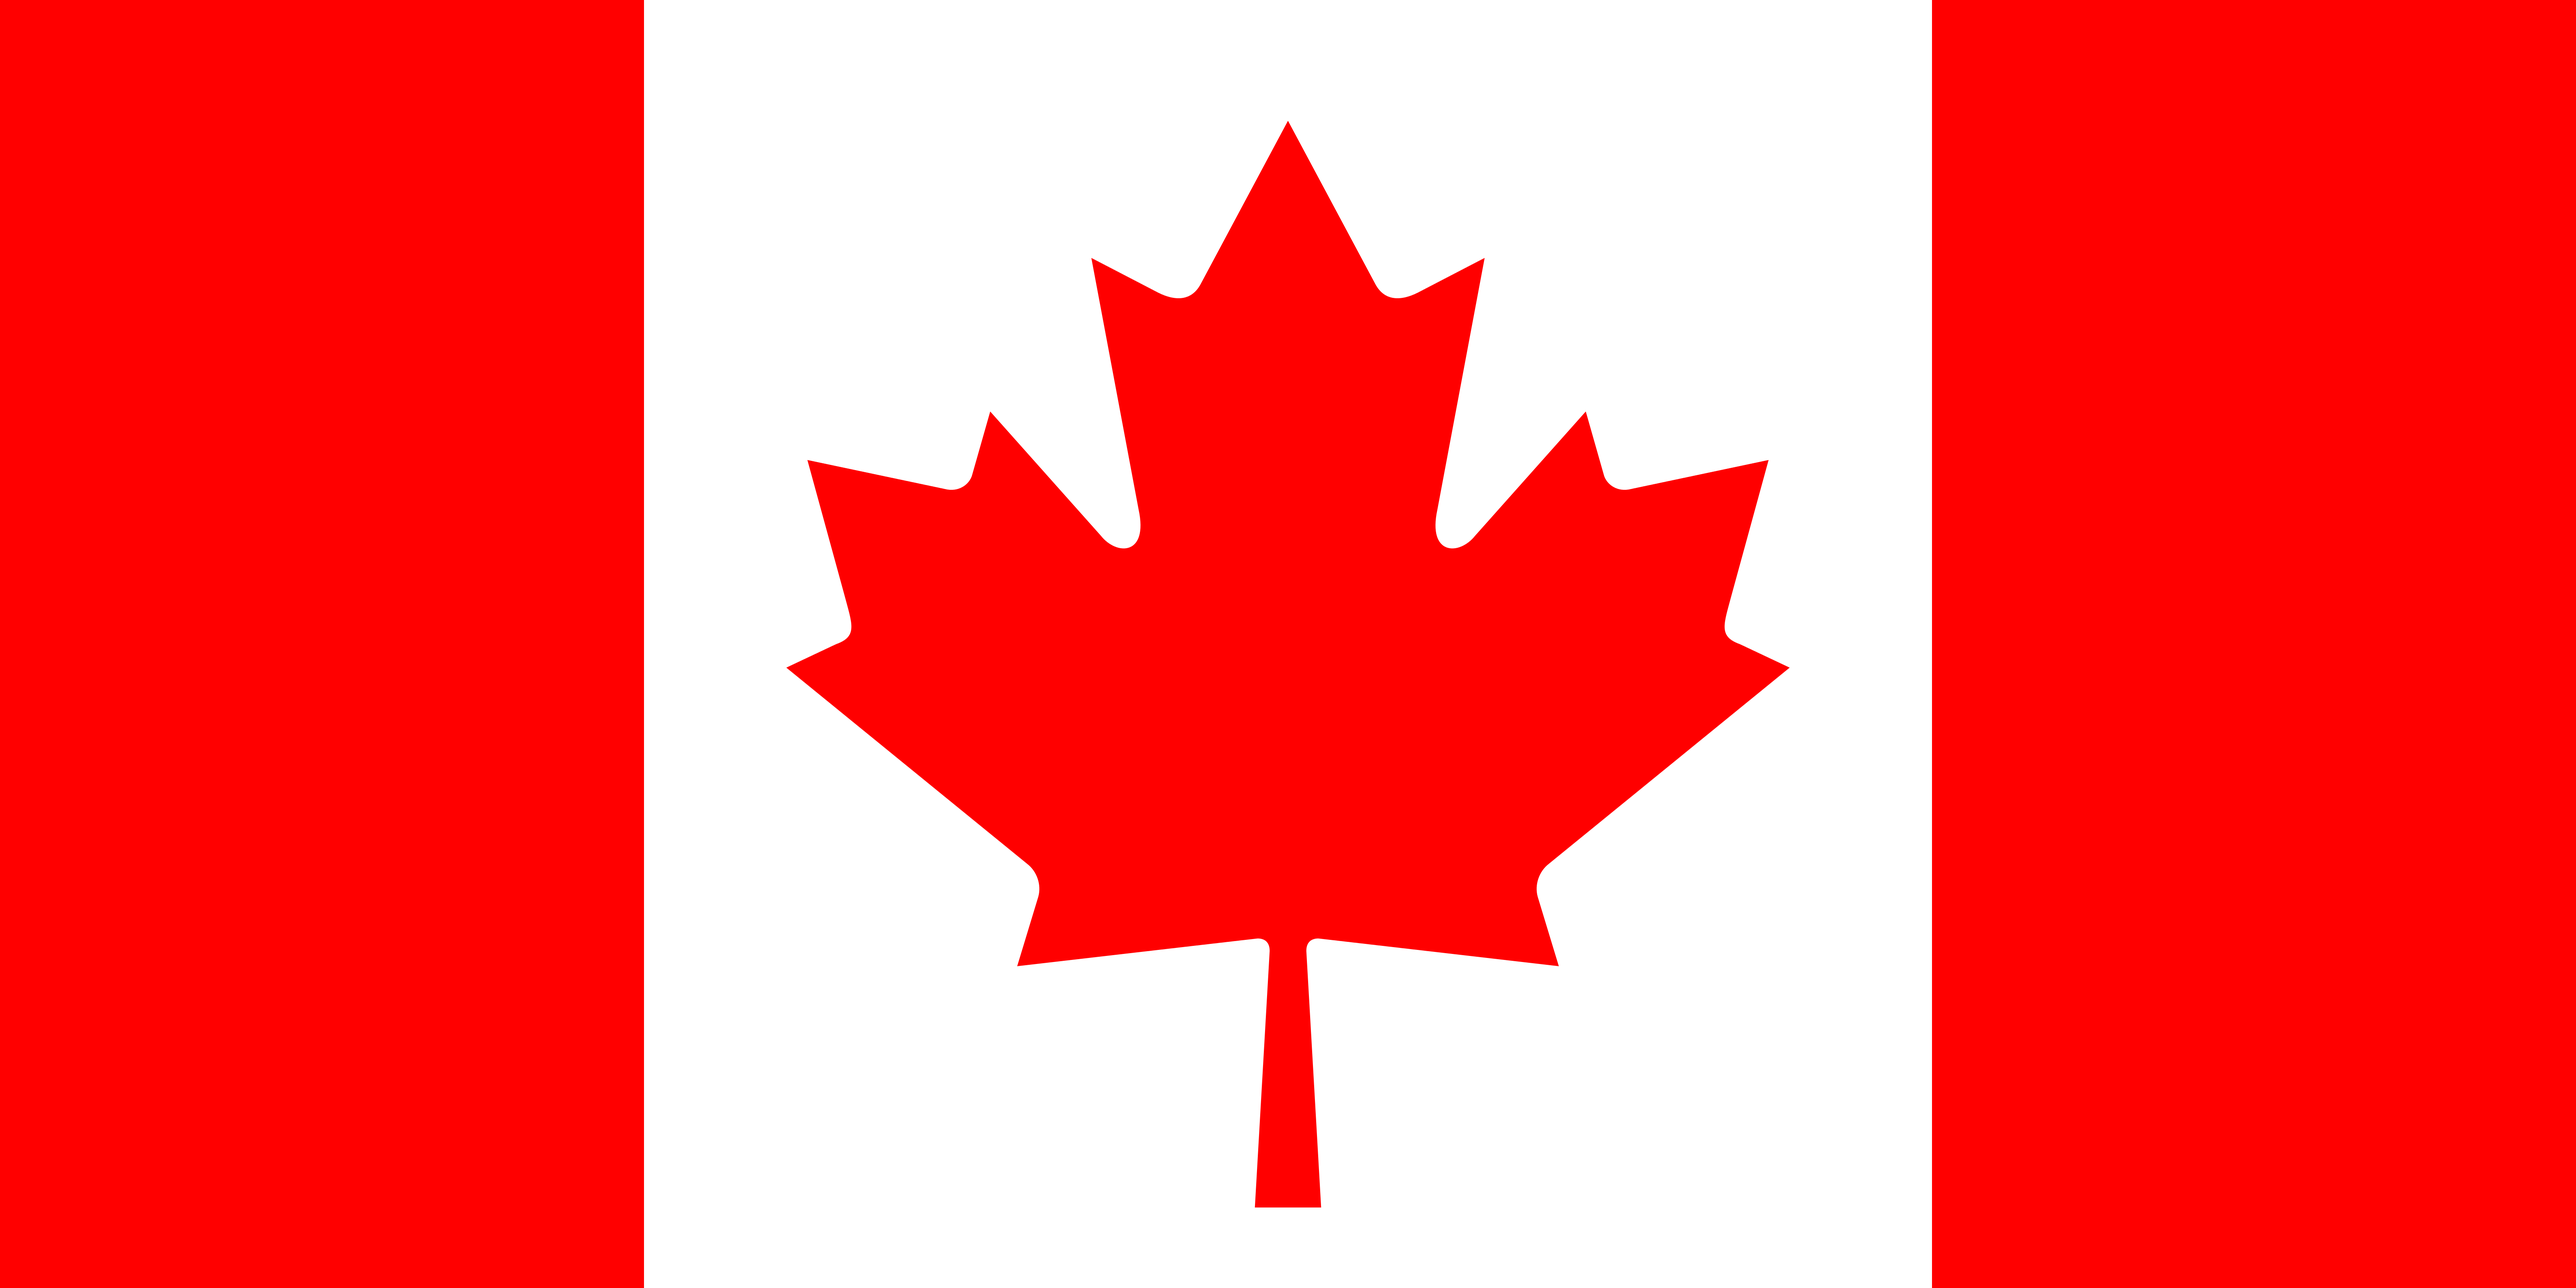
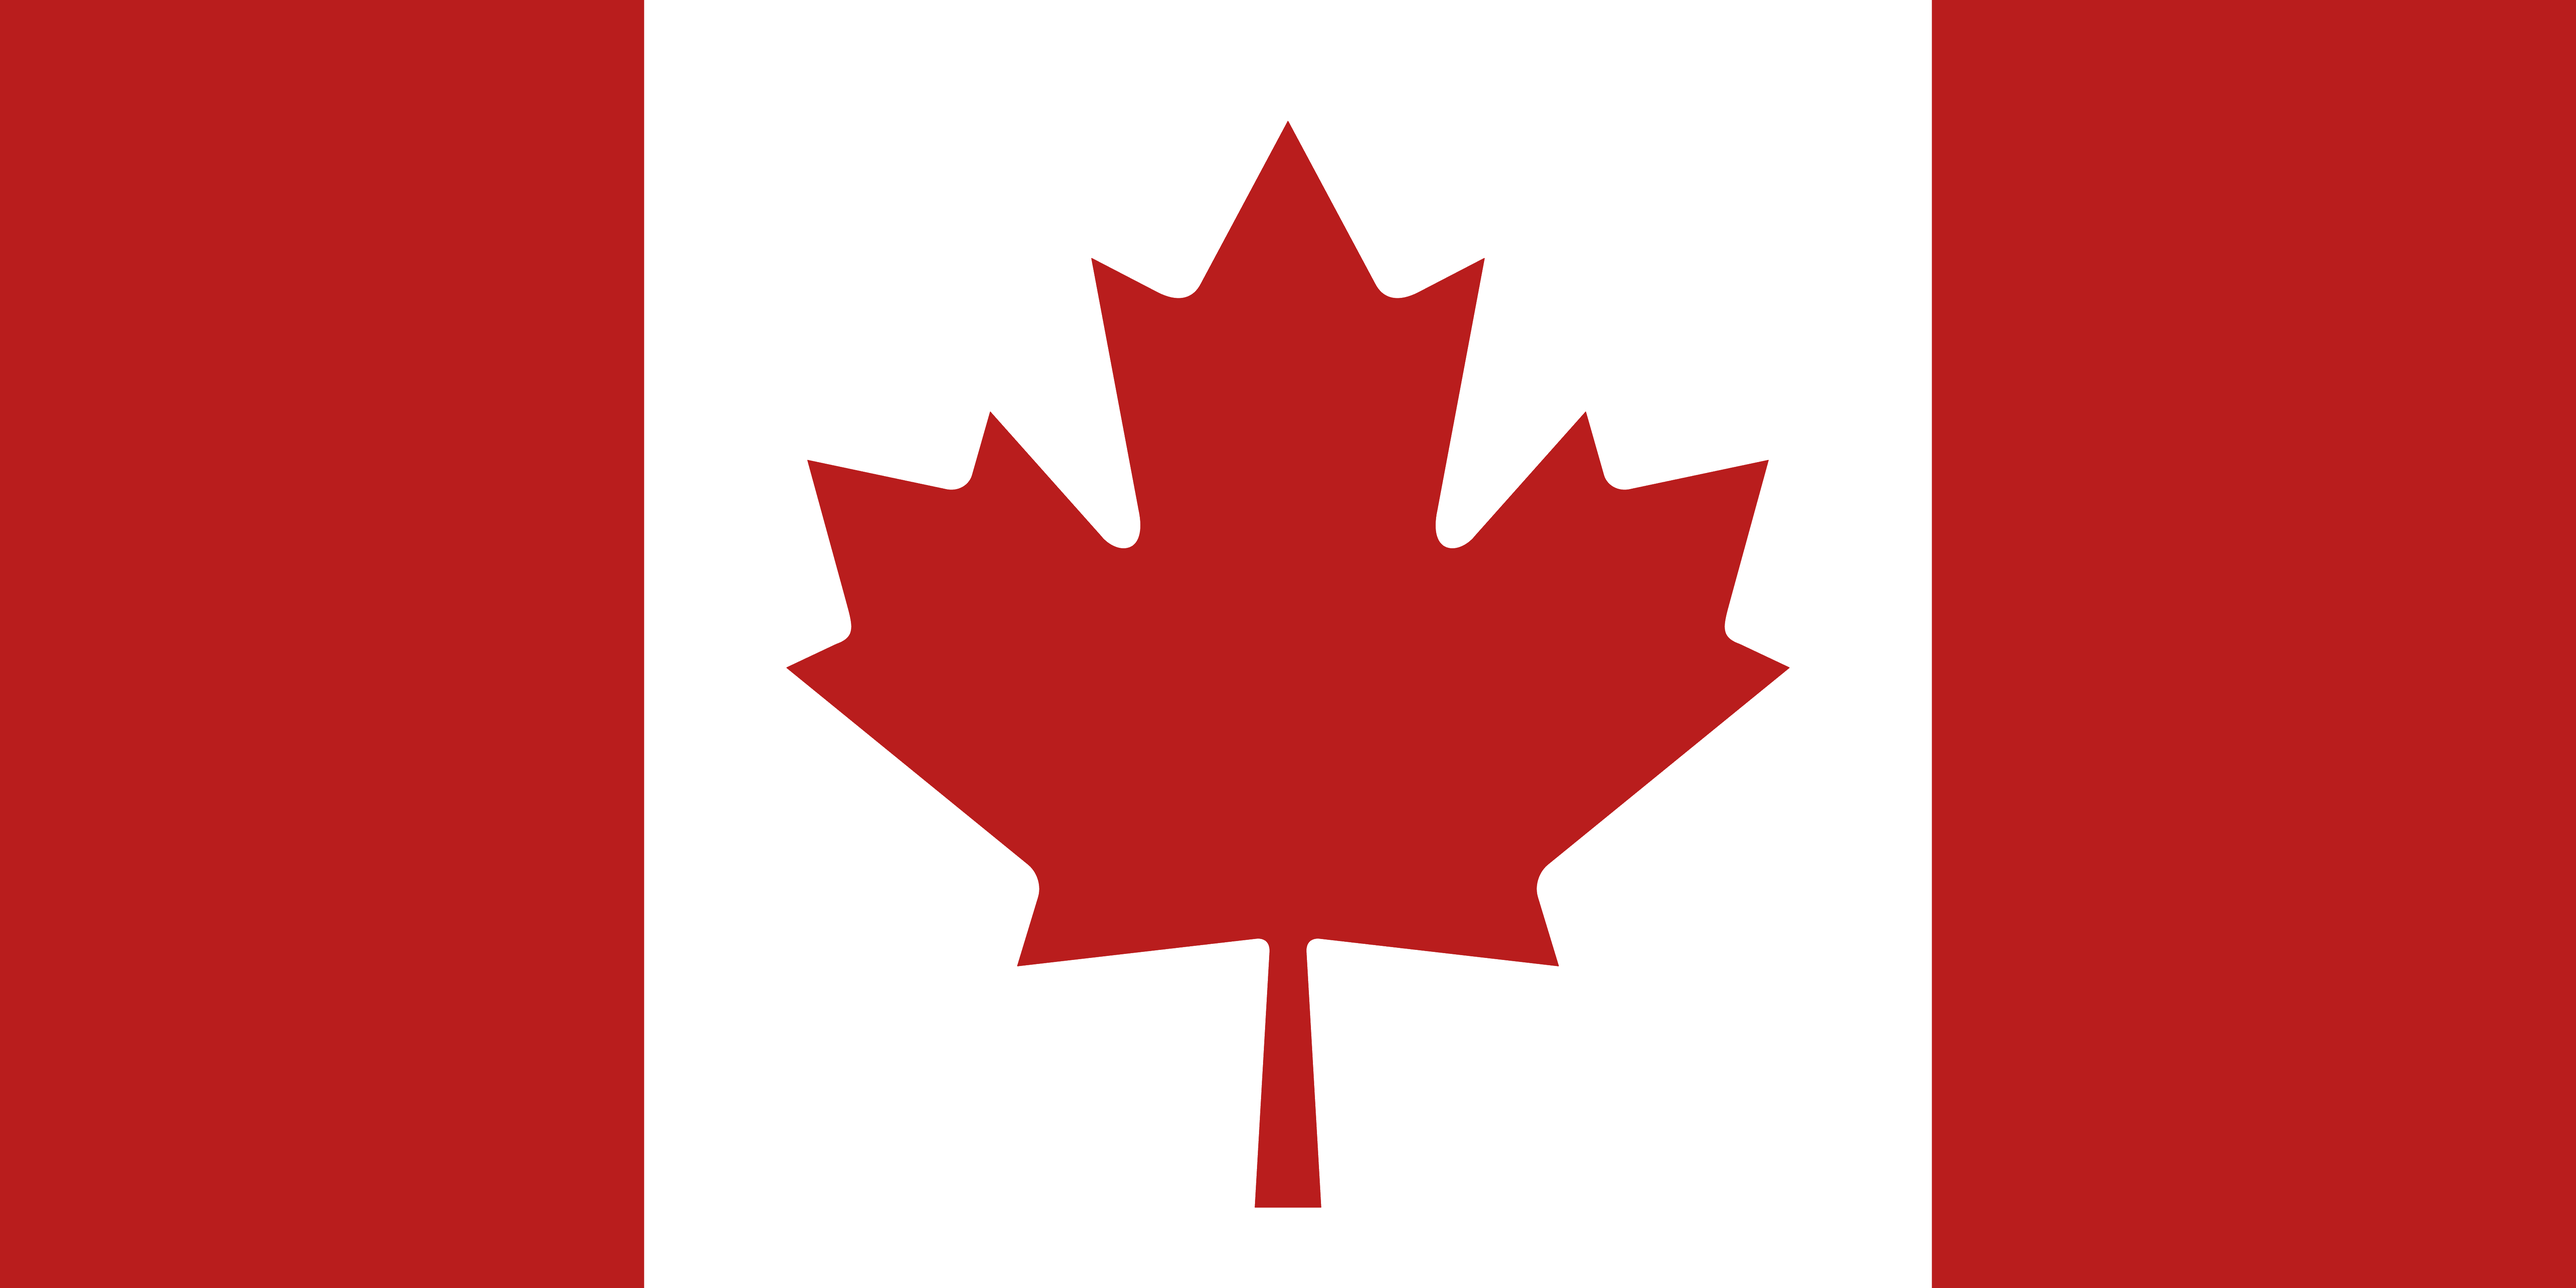
Completed layout and style.css

diff --git a/Assets/style.css b/Assets/style.css
@@ -1,7 +1,11 @@
-#header1{display:flex;}
-#os_logo{width:120px; margin-left: 80%;}
-#c_logo{width:100px; margin-left: 20%;}
-.card{background-color: #dedede;} /*.card is now a class. that changes background color to blue
+#header1{display:flex; gap: 60%;}
+#header2{display:flex; gap: 60%;}
+#os_logo{width:120px;height:60px;}
+#c_logo{width:100px; height:55px;}
+#sports_radio{accent-color: #b91d1d ;}
+#canada_dropdown{margin-top: 11%;}
+.card{background-color: #dedede; padding: 20px;} /*.card is now a class. that changes background color to blue
 /* #head1{border-collapse: collapse ;} */
-label{margin-right: 4%; margin-left: 10%; background-size: 50%; background-color: 
-    #ececec; border-style: groove; border: 2px solid rgb(89, 89, 89); border-radius: 5px;}
+label{margin-right: 4%; margin-left: 13%; background-size: 50%; background-color: 
+    #ffffff; border-style: groove; border: 3px solid #b91d1d; border-radius: 5px; padding: 5px;}
+.col{ padding: 20px;}

diff --git a/main.py b/main.py
@@ -10,7 +10,7 @@ import dash_bootstrap_components as dbc
 import pandas as pd
 from functions import clean_df_from_team, clean_df_from_athlet_repeat
 
-pio.templates.default = "gridon"
+pio.templates.default = "gridon" # Changes default template for all graphs. 
 
 #creating the dataframe with read csv
 df = pd.read_csv("Data/athlete_events.csv")
@@ -34,13 +34,8 @@ app = dash.Dash(__name__, external_stylesheets=[dbc.themes.SANDSTONE],
 #----------------------------------------------------------
 
 app.layout = dbc.Container([ # Everything that shows up in the app needs to be in a container in order to be visable.
-# First row with dashboard header and olympic logo.
-    dbc.Row([
 
-        #dbc.Col([html.H1("Dashboard",id= "head1",className="" )],width={"offset":0}, ), # html.H1 is Title or header, 
-        dbc.Col([html.Img(src= "../assets/os_logo.png", id="os_logo", className="mb-3 ")]),   
-    ]),
-# Second row for both cards.
+# First row for both cards.
     dbc.Row([
     # Column for Canada
         dbc.Col([
@@ -53,10 +48,10 @@ app.layout = dbc.Container([ # Everything that shows up in the app needs to be i
                 dbc.CardImg(src = "../assets/Flag_Canada.png", id="c_logo", className="")], id="header1",width={}),
 
                 #Column with Dropdown for Canada
-                dbc.Col([dcc.Dropdown(id="canada_dropdown", className="mb-", multi=False, value="Number of medals", #Sets dropdown and chooses Swimming as default.
+                dbc.Col([dcc.Dropdown(id="canada_dropdown", className="", multi=False, value="Number of medals", #Sets dropdown and chooses Swimming as default.
                         options=canada_options),]),
                 #Column with Graph for Canada
-                dbc.Col([dcc.Graph(id="canada_graph", figure={},className="card mb-3")],),
+                dbc.Col([dcc.Graph(id="canada_graph", figure={},className="card")],),
                 ],
             ),
         ],width={"size":6,"offset":0}),
@@ -66,23 +61,23 @@ app.layout = dbc.Container([ # Everything that shows up in the app needs to be i
             # Card for Sports
             dbc.Card([
                 #Column with Text for Sports
-                dbc.Col([html.H1("Sports",id= "sports_text",className="", style={"textDecoration": "underline"} )],width={}),
+                dbc.Col([html.H1("Sports",id= "sports_text",className="", style={"textDecoration": "underline"} ),html.Img(src= "../assets/os_logo.png", id="os_logo", className="")], id="header2",width={}),
 
                 
                 #Column with RadioItems for Sports
                 dbc.Col([dcc.RadioItems(id="sports_radio", options= radio_options, value="Swimming",)]
-                ,width = {}, className="mt-3 mb-3"),
+                ,width = {}, className=""),
                 
                 #Column with Dropdown for Sports
                 dbc.Col([dcc.Dropdown(id="sports_dropdown_options", value="Number of medals",  # auto selects both male and female
                         options=sports_options)]),
                 #Column with Graph for Sports
-                dbc.Col([dcc.Graph(id="sport_graph", figure={},className="mb-3")],),
+                dbc.Col([dcc.Graph(id="sport_graph", figure={},className="mt-4 mb-3")],),
                 ]
             )
         ],width={"size":6,"offset":0}),
-    ])
-])
+    ],)
+],className="col", fluid=True)
 
 #--------------------------------------------------------------------------------
 # canada analysis call-back
@@ -103,19 +98,19 @@ def update_canada_graph(analysis_chosen):
         # dff: removed pultiple entries for team efforts, grouped by Sport and counted valies for Medal, sorted and picked 10 top values
         dff = clean_df_from_team(dff).groupby("Sport").count().sort_values(by="Medal", ascending=False).head(10)
         # bar plot with x = Sport, y = medal
-        fig = px.bar(dff, x=dff.index, y=["Medal"], title="Canada 10 top sports", labels={"value": "Total number of medals"})
+        fig = px.bar(dff, x=dff.index, y=["Medal"], title="Canada 10 top sports", labels={"value": "Total number of medals"}, color_discrete_sequence=["#b91d1d"])
         # legend is not shown
         fig.update_layout(showlegend=False)
     
     if analysis_chosen == "Number of medals":
         dff = clean_df_from_team(dff).groupby("Year").count().sort_values(by="Medal", ascending=False)
-        fig = px.bar(dff, x=dff.index, y=["Medal"], title="Canadian medals per olympics", labels={"value": "Total number of medals"})
+        fig = px.bar(dff, x=dff.index, y=["Medal"], title="Canadian medals per olympics", labels={"value": "Total number of medals"}, color_discrete_sequence=["#b91d1d"])
         fig.update_layout(showlegend=False)
 
     if analysis_chosen == "Age distribution":
-        fig = px.histogram(dff, x="Age", nbins=80, title="Age distribution canadian athletes", labels={"count": "Number of athletes"})     
+        fig = px.histogram(dff, x="Age", nbins=80, title="Age distribution canadian athletes", labels={"count": "Number of athletes"}, color_discrete_sequence=["#b91d1d"])     
         fig.update_layout(yaxis_title="Number of athletes")
-        
+   
     return fig                                    # returns figure till Output
 
 #---------------------------------------------------------------------------------------------------
@@ -134,18 +129,18 @@ def uppdate_sports_graph(analysis_chosen, sport_chosen):
 
     if analysis_chosen == "Number of medals":
         dff = clean_df_from_team(dff).groupby("Year").agg({"Medal":"count", "Age":"mean"})
-        fig = px.bar(dff, x=dff.index, y=["Medal"], title=f"Total number of medals in {sport_chosen} per year", labels={"value": "Number of medals"})
+        fig = px.bar(dff, x=dff.index, y=["Medal"], title=f"Total number of medals in {sport_chosen} per year", labels={"value": "Number of medals"}, color_discrete_sequence=["#b91d1d"])
         fig.update_layout(showlegend=False)
         fig.update_traces(hovertemplate = "Year: %{label}: <br>Number of medals: %{value}")
     
     if analysis_chosen == "Average age per year":
         dff = dff.groupby("Year").agg({"Medal":"count", "Age":"mean"})
-        fig = px.bar(dff, x=dff.index, y=["Age"], title= f"Average age in {sport_chosen} per year", labels={"value": "Average age"})
+        fig = px.bar(dff, x=dff.index, y=["Age"], title= f"Average age in {sport_chosen} per year", labels={"value": "Average age"}, color_discrete_sequence=["#b91d1d"])
         fig.update_layout(showlegend=False, yaxis_range = [15,30])
-        fig.update_traces(hovertemplate = "Year: %{label}: <br>Average age: %{value}")
+        fig.update_traces(hovertemplate = "Year: %{label}: <br>Average age: %{value}",)
     
     if analysis_chosen == "Age distribution":
-        fig = px.histogram(dff, x="Age", nbins=80, title= f"Age distribution {sport_chosen}", labels={"count": "Number of athletes"})
+        fig = px.histogram(dff, x="Age", nbins=80, title= f"Age distribution {sport_chosen}", labels={"count": "Number of athletes"}, color_discrete_sequence=["#b91d1d"])
         fig.update_layout(yaxis_title="Number of athletes")
 
     if analysis_chosen == "Relative number of athletes":
@@ -158,7 +153,8 @@ def uppdate_sports_graph(analysis_chosen, sport_chosen):
         dff["Rel athletes in sport"] = 100 * dff["Number in sport"]/dff["Number tot"]
         fig = px.line(dff, x=dff.index, y=["Rel athletes in sport"], title=f"Number of athletes in {sport_chosen} relative to all athletes", labels={"value": "Percentage"})
         fig.update_layout(showlegend=False)            # legend is not shown
-        fig.update_traces(hovertemplate = "Year: %{label}: <br>Percentage: %{value}")       # adjust info shown when hoovering over graph
+        fig.update_traces(hovertemplate = "Year: %{label}: <br>Percentage: %{value}", line_color="#b91d1d", line_width=5)       # adjust info shown when hoovering over graph  and changes color of line
+
 
     return fig
 
